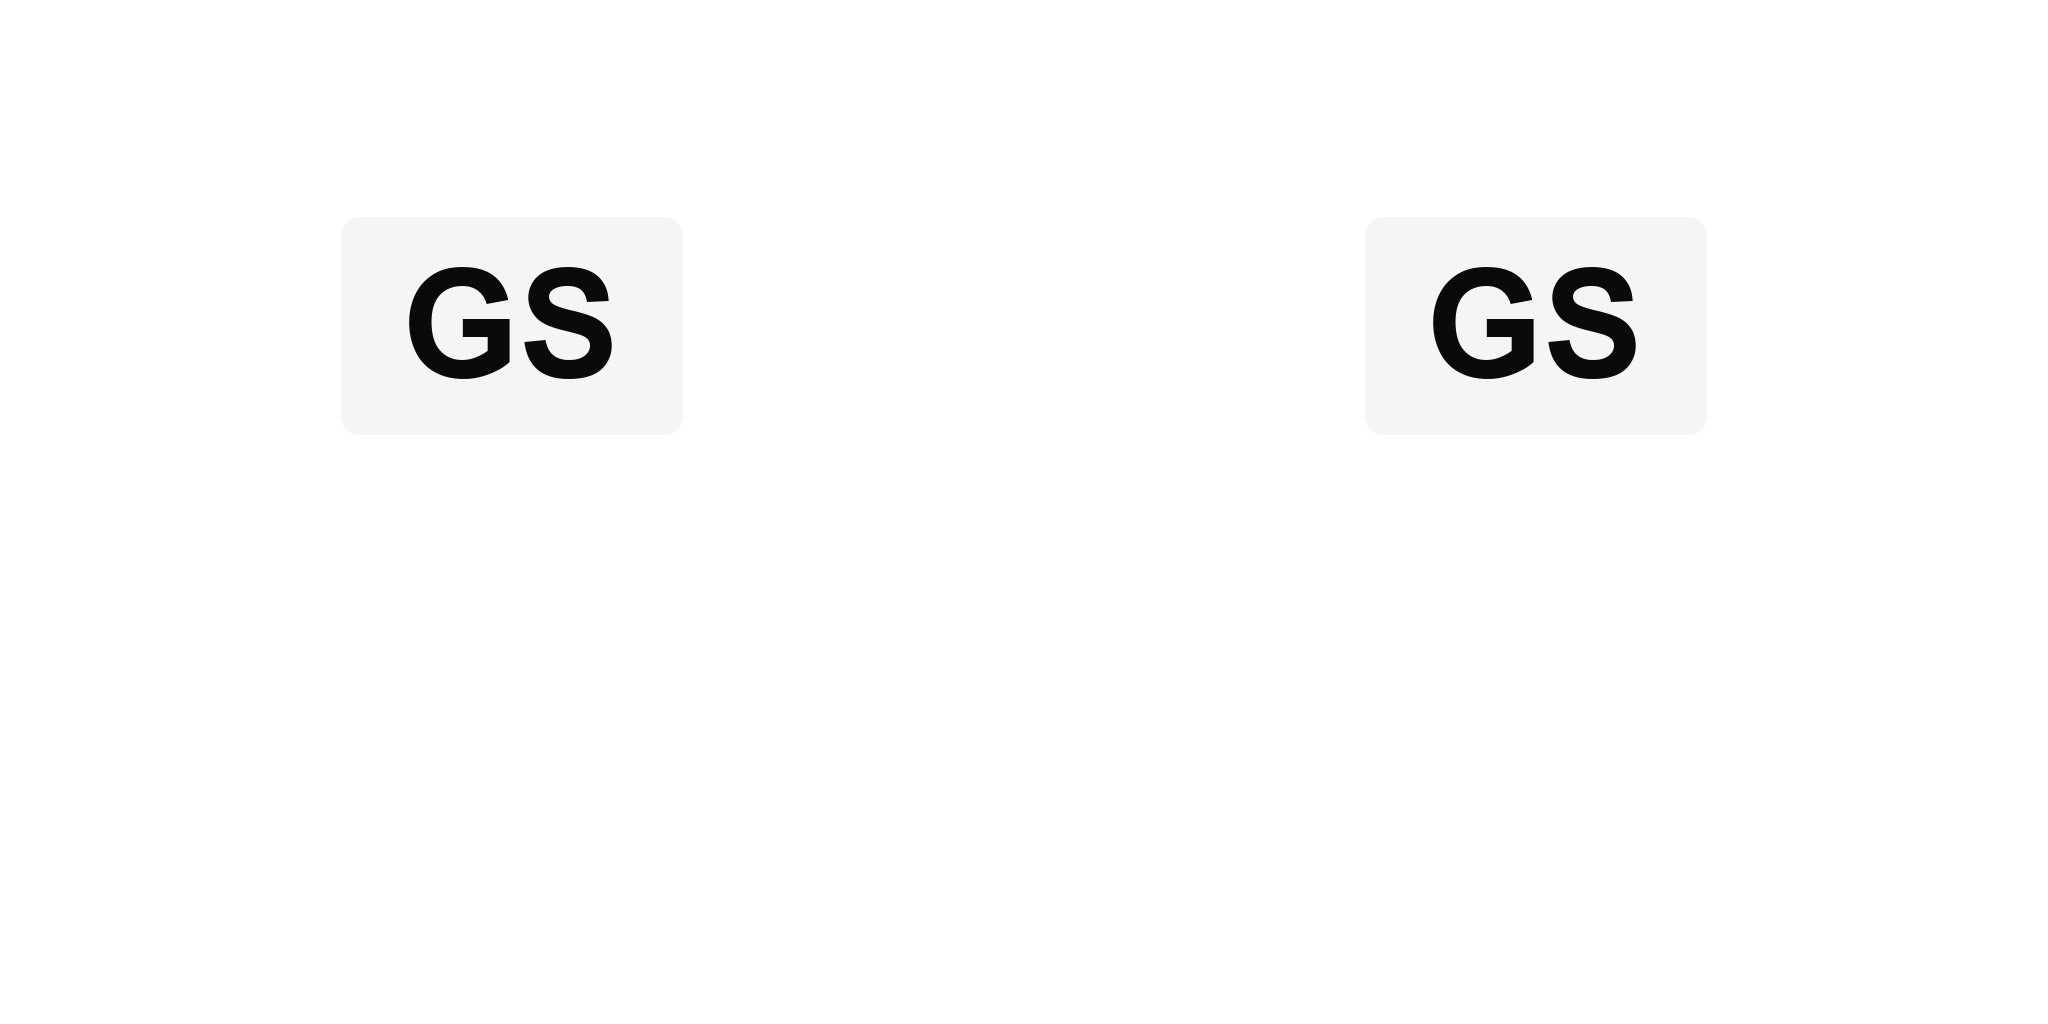
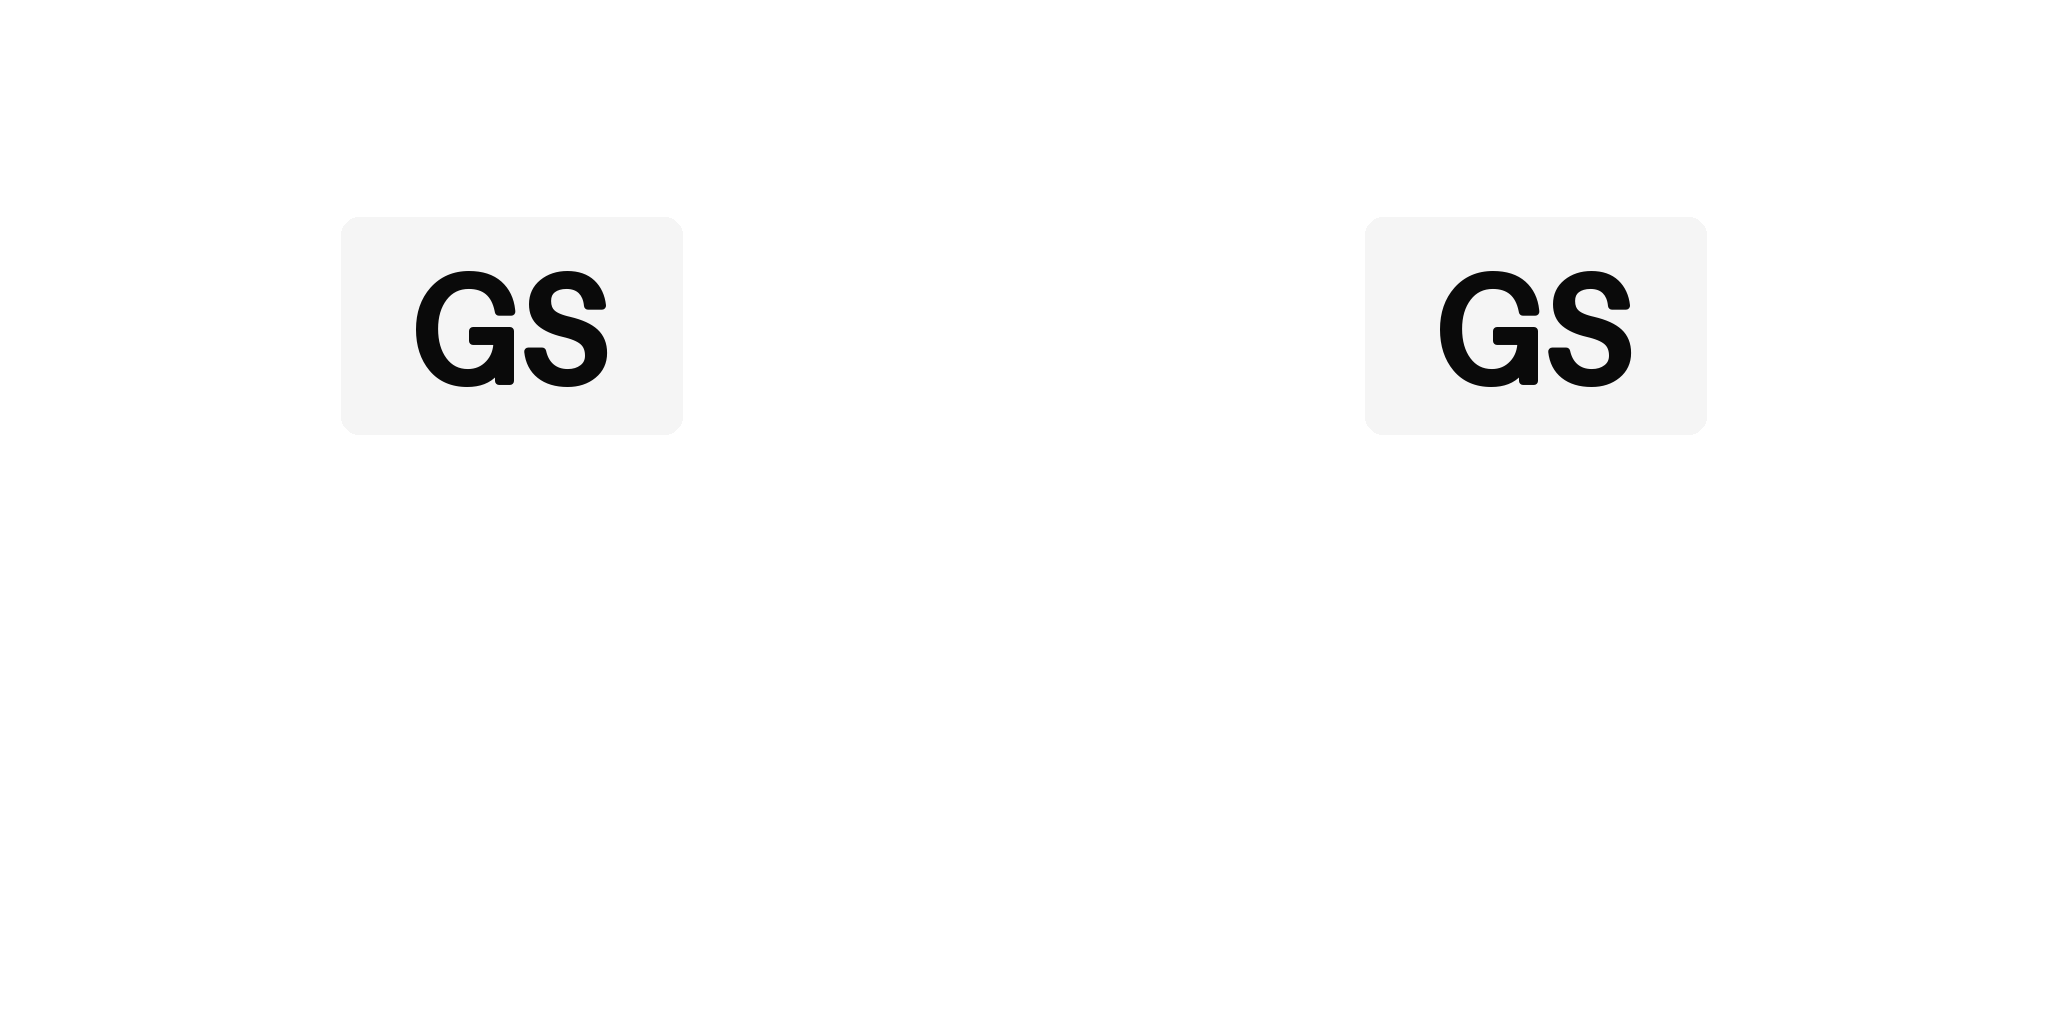
the bib draws with the face Pillow carries, and a guard redraws it
THIS SCRIPT HAD THE FAULT THE MERGE JUST FIXED NEXT DOOR.
`scripts/make_bib_image.py` hard-coded `C:/Windows/Fonts/arialbd.ttf`, and
`assets/kit/bib_GS.json` recorded that path as the provenance of a file this
unit claims is reproducible from a clone. Every test here READ the committed
image and none REDREW it, so the suite stayed green while the letters could
not be drawn on any machine but this one.

The font now comes from `kit_font.resolve`, which the paint lane wrote and
measured on both machines: Pillow's bundled Aileron resolves on both AND is
the same face on both, and a named font that is absent is refused rather
than quietly replaced. The sidecar records the label, not a path.

Aileron is a Regular and a bib reads heavy, so the weight becomes
`bib.strokePx` in the kit file: a stroke thickens whatever face resolved, so
the weight is a parameter and not a property of a machine's font library.
4 px was chosen by a rendered sweep at 0, 2, 4, 6 and 8 px and looked at:
it puts 100.4% of the Arial Bold original's ink in the square.

THE GUARD THAT WOULD HAVE CAUGHT IT redraws the bib from the kit file and
compares pixels, so it fails on any machine that cannot reproduce the
committed bytes. Proved failable on four cases, on copies: strokePx +1,
fontPx +1, a named system font, and an absent font. A second guard refuses
any machine path in either kit sidecar.

The dress is re-authored because its sidecar pins the kit file by hash; its
[…]

Changed region(s): [[0.6875, 0.25, 0.8125, 0.375], [0.1875, 0.25, 0.3125, 0.375]]

diff --git a/scripts/make_bib_image.py b/scripts/make_bib_image.py
@@ -18,12 +18,17 @@ from __future__ import annotations
 import argparse
 import hashlib
 import json
+import sys
 from pathlib import Path
 
 ROOT = Path(__file__).resolve().parents[1]
+if str(ROOT) not in sys.path:
+    sys.path.insert(0, str(ROOT))
+
+from kit_font import BUNDLED, resolve as resolve_font  # noqa: E402
+
 DEFAULT_KIT = ROOT / "config" / "kit" / "netball_dress.v1.json"
 DEFAULT_OUT = ROOT / "assets" / "kit"
-DEFAULT_FONT = Path("C:/Windows/Fonts/arialbd.ttf")
 
 
 def bib_boxes_px(kit: dict) -> list[tuple[int, int, int, int]]:
@@ -45,21 +50,38 @@ def bib_boxes_px(kit: dict) -> list[tuple[int, int, int, int]]:
     return boxes
 
 
-def draw(kit: dict, letters: str, font_path: Path | None):
-    from PIL import Image, ImageDraw, ImageFont
+def draw(kit: dict, letters: str, font_request: str | None):
+    """The image, and the label of the font that drew it.
+
+    THE FONT IS RESOLVED BY `kit_font`, which the paint lane wrote after a
+    hard-coded `C:/Windows/Fonts/arialbd.ttf` turned the runner red six times.
+    This script carried the same path and the same fault: its own tests read
+    the committed image and never redrew it, so the suite stayed green while
+    the letters were undrawable on any machine but this one. The default is
+    the face Pillow carries, which is the same face on both machines, and a
+    named font that is absent is refused rather than quietly replaced.
+    """
+    from PIL import Image, ImageDraw
 
     width, height = kit["bib"]["imagePx"]
     image = Image.new("RGBA", (width, height), (0, 0, 0, 0))
     canvas = ImageDraw.Draw(image)
-    if font_path is not None and font_path.is_file():
-        font = ImageFont.truetype(str(font_path), kit["bib"]["fontPx"])
-    else:
-        font = ImageFont.load_default(size=kit["bib"]["fontPx"])
+    font, font_used = resolve_font(font_request, kit["bib"]["fontPx"])
     for box in bib_boxes_px(kit):
         canvas.rounded_rectangle(box, radius=kit["bib"]["cornerRadiusPx"], fill=(245, 245, 245, 255))
         centre = ((box[0] + box[2]) // 2, (box[1] + box[3]) // 2)
-        canvas.text(centre, letters, font=font, fill=(10, 10, 10, 255), anchor="mm")
-    return image
+        # THE WEIGHT IS A STROKE AND NOT A BOLD FACE. A bib reads heavy in the
+        # photographs, Pillow's bundled Aileron is a Regular, and there is no
+        # bold face both machines are known to carry. A stroke on the glyph
+        # thickens whatever face resolved, so the weight is a number in the kit
+        # file rather than a property of a machine's font library. 4 px was
+        # chosen by a rendered sweep: it puts the same amount of ink in the
+        # square as the Arial Bold original, 100.4% of it, and 2 px and 6 px
+        # read visibly light and heavy beside it.
+        stroke = int(kit["bib"].get("strokePx", 0))
+        canvas.text(centre, letters, font=font, fill=(10, 10, 10, 255), anchor="mm",
+                    stroke_width=stroke, stroke_fill=(10, 10, 10, 255))
+    return image, font_used
 
 
 def main() -> int:
@@ -67,7 +89,9 @@ def main() -> int:
     parser.add_argument("letters", help="the position letters, for example GS")
     parser.add_argument("--kit", type=Path, default=DEFAULT_KIT)
     parser.add_argument("--out", type=Path, default=DEFAULT_OUT)
-    parser.add_argument("--font", type=Path, default=DEFAULT_FONT)
+    parser.add_argument("--font", default=None,
+                        help=f"a path to a .ttf or .otf, or {BUNDLED!r} for the "
+                             "face Pillow carries (the default)")
     args = parser.parse_args()
     kit = json.loads(args.kit.read_text(encoding="utf-8"))
     letters = args.letters.upper()
@@ -75,7 +99,8 @@ def main() -> int:
         parser.error("letters must be one to three letters")
     args.out.mkdir(parents=True, exist_ok=True)
     target = args.out / f"bib_{letters}.png"
-    draw(kit, letters, args.font).save(target)
+    image, font_used = draw(kit, letters, args.font)
+    image.save(target)
     # A sidecar beside the image, with the provenance claim under the same
     # key the painted-kit layer uses: this script reads no texture at all.
     sidecar = {
@@ -87,7 +112,9 @@ def main() -> int:
         "letters": letters,
         "textureSize": kit["bib"]["imagePx"],
         "boxesPx": bib_boxes_px(kit),
-        "font": str(args.font) if args.font.is_file() else "PIL default",
+        "fontPx": kit["bib"]["fontPx"],
+        "strokePx": int(kit["bib"].get("strokePx", 0)),
+        "font": font_used,
         "kitFile": args.kit.relative_to(ROOT).as_posix() if args.kit.is_relative_to(ROOT) else str(args.kit),
         "kitSha256": hashlib.sha256(args.kit.read_bytes().replace(b"\r\n", b"\n")).hexdigest(),
         "hashNote": "kitSha256 is the input with CRLF folded to LF; outputSha256 is the raw bytes",

diff --git a/tests/test_kit_in_the_pipeline.py b/tests/test_kit_in_the_pipeline.py
@@ -15,6 +15,7 @@ around them.
 from __future__ import annotations
 
 import json
+import re
 import sys
 import tempfile
 import unittest
@@ -25,7 +26,8 @@ sys.path.insert(0, str(MODULE_DIR))
 sys.path.insert(0, str(MODULE_DIR / "scripts"))
 
 from asset_licences import OWN_WORK, licence_for  # noqa: E402
-from make_bib_image import bib_boxes_px  # noqa: E402
+from kit_font import BUNDLED  # noqa: E402
+from make_bib_image import bib_boxes_px, draw  # noqa: E402
 from reference_pose_config import (  # noqa: E402
     DEFAULT_CONFIG_PATH,
     MaterialPresentation,
@@ -177,6 +179,53 @@ class TheCommittedDressIsWhatItsSidecarSays(unittest.TestCase):
     def test_the_mhclo_names_the_obj_the_receipt_must_hash(self):
         self.assertEqual(mhclo_obj_path(DRESS), DRESS.with_suffix(".obj"))
         self.assertTrue(mhclo_obj_path(DRESS).is_file())
+
+
+class TheCommittedBibCanBeRedrawnOnAnyMachine(unittest.TestCase):
+    """The guard the first version of this file did not have.
+
+    `make_bib_image.py` hard-coded `C:/Windows/Fonts/arialbd.ttf`. Every test
+    here READ the committed image and none of them REDREW it, so the suite was
+    green on the machine that had that font while the script could not draw the
+    same letters anywhere else, and the sidecar recorded the machine path as
+    the provenance of a file the unit claims is reproducible from a clone.
+
+    This redraws the bib from the kit file and compares PIXELS. It fails on any
+    machine that cannot reproduce the committed bytes, which is the whole
+    claim, and it fails here if the kit file and the image drift apart.
+    """
+
+    def test_redrawing_the_bib_reproduces_the_committed_pixels(self):
+        from PIL import Image
+
+        kit = json.loads(KIT_FILE.read_text(encoding="utf-8"))
+        sidecar = json.loads(BIB.with_suffix(".json").read_text(encoding="utf-8"))
+        redrawn, font_used = draw(kit, sidecar["letters"], None)
+        self.assertEqual(font_used, sidecar["font"], "a different font resolved here")
+        committed = Image.open(BIB).convert("RGBA")
+        self.assertEqual(redrawn.size, committed.size)
+        self.assertEqual(redrawn.convert("RGBA").tobytes(), committed.tobytes())
+
+    def test_the_recorded_font_is_not_a_path_on_one_machine(self):
+        sidecar = json.loads(BIB.with_suffix(".json").read_text(encoding="utf-8"))
+        self.assertTrue(
+            sidecar["font"].startswith(f"{BUNDLED}:"),
+            f"the bib must be drawn with the face Pillow carries, not {sidecar['font']!r}",
+        )
+
+    def test_no_committed_kit_sidecar_records_a_machine_path(self):
+        # A provenance record naming C:/... or /home/... describes a file one
+        # machine had. Both sidecars are checked, not only the bib's.
+        drive_letter = re.compile(r"^[A-Za-z]:[/\\]")
+        for sidecar_path in sorted((MODULE_DIR / "assets" / "kit").glob("*.json")):
+            values = json.loads(sidecar_path.read_text(encoding="utf-8"))
+            for key, value in values.items():
+                if not isinstance(value, str):
+                    continue
+                with self.subTest(file=sidecar_path.name, key=key):
+                    self.assertIsNone(drive_letter.match(value), value)
+                    self.assertFalse(value.startswith("/home/"), value)
+                    self.assertNotIn("\\", value)
 
 
 class TheBibImageCarriesItsOwnSidecar(unittest.TestCase):
